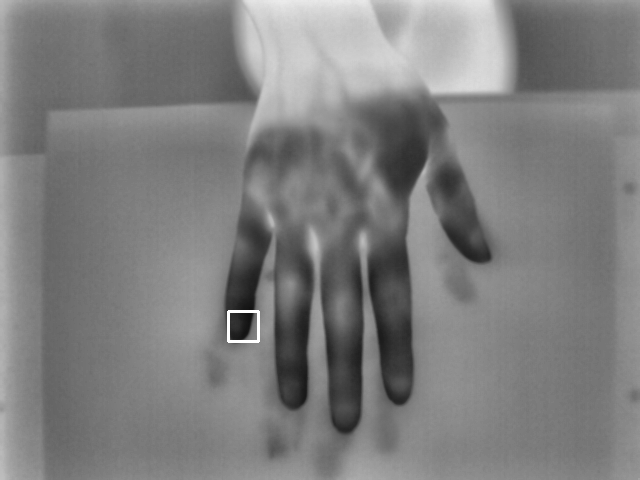
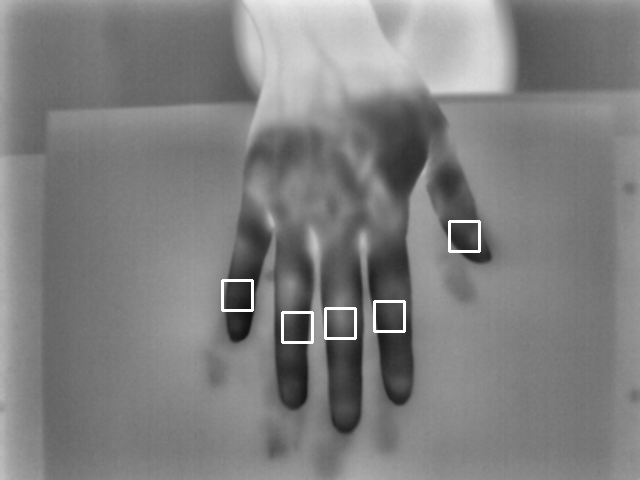
ahora lee de archivos tambien

diff --git a/register.py b/register.py
@@ -108,7 +108,7 @@ def register_point(image1, image2, point1, search_size = 100):
 
       errori = errorGradiente + errorDistancia + errorPunto 
       
-      print(errori)
+      # print(errori)
 
 
       if errori <= error2:
@@ -120,8 +120,17 @@ def register_point(image1, image2, point1, search_size = 100):
 def register_points(image1, image2, points):
   return [register_point(image1, image2, pointi) for pointi in points]
 
-def register(images):
-  points = [utils.ask_points(images[0])]
+def register(images,args):
+  
+
+  if (len(args)>2):
+     file = np.genfromtxt(args[2])
+     data = [[( int(file[x][0]), int(file[x][1]))  for x in range(len(file))]]
+  else:
+    data = [utils.ask_points(images[0])]
+
+  points = data
+
   for i in range(1, len(images)):
     image1 = utils.read(images[i - 1])
     image2 = utils.read(images[i])
@@ -135,5 +144,5 @@ if __name__ == '__main__':
   #print (cv2.__version__)
   path = sys.argv[1]
   images = utils.images(path)
-  points = register(images)
+  points = register(images,sys.argv)
   utils.render_points(images, points)
